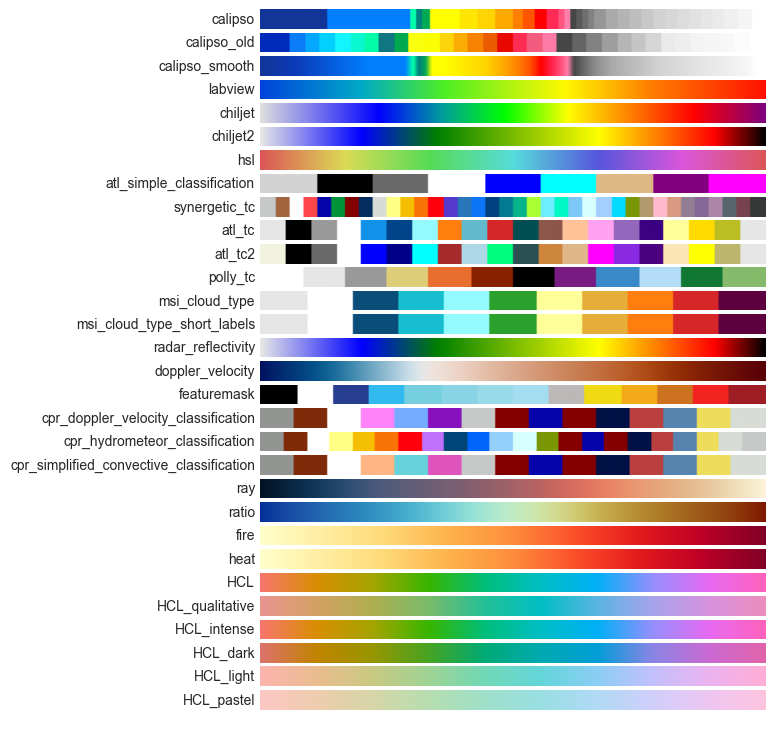
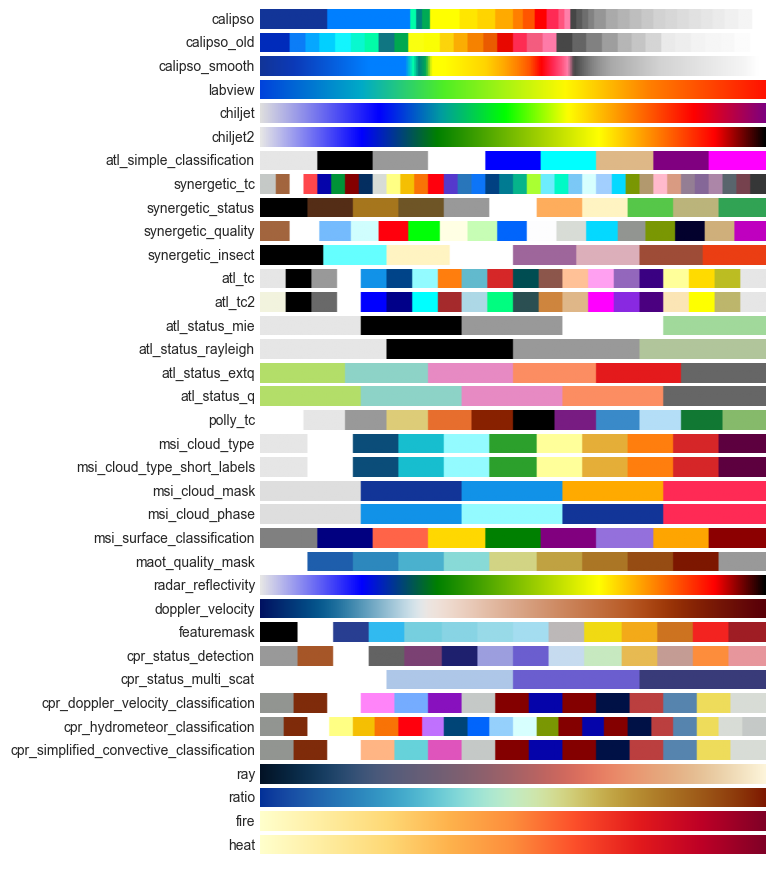
Updated colormaps image
- Removed unused colormaps

diff --git a/earthcarekit/plot/color/colormap/colormap.py b/earthcarekit/plot/color/colormap/colormap.py
@@ -37,8 +37,6 @@ from .cpr_target_classification import (
 )
 from .doppler_velocity import get_cmap as get_cmap_doppler_velocity
 from .featuremask import get_cmap as get_cmap_featuremask
-from .ggplot_like_hcl import get_cmaps as get_ggplot_like_hcl_cmaps
-from .hsl import get_cmap as get_cmap_hsl
 from .labview import get_cmap as get_cmap_labview
 from .maot_colormaps import get_cmap_maot_quality_mask
 from .mcm_colormaps import (
@@ -76,7 +74,6 @@ def _get_custom_cmaps() -> dict[str, Colormap]:
         get_cmap_labview(),
         get_cmap_chiljet(),
         get_cmap_chiljet2(),
-        get_cmap_hsl(),
         get_cmap_atl_simple_classification(),
         get_cmap_synergetic_tc(),
         get_cmap_synergetic_status(),
@@ -109,7 +106,6 @@ def _get_custom_cmaps() -> dict[str, Colormap]:
         ),
         rename_cmap(mpl_cmaps.get_cmap("YlOrRd"), "fire"),
         rename_cmap(mpl_cmaps.get_cmap("YlOrRd"), "heat"),
-        *get_ggplot_like_hcl_cmaps(),
     ]
     return {cm.name: cm for cm in _cmaps}
 
